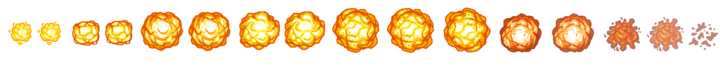
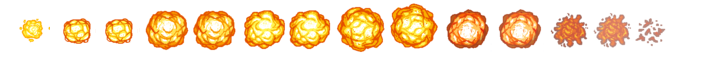
nothing

diff --git a/Client/game.js b/Client/game.js
@@ -130,12 +130,12 @@ var GameState = {
             }
 
             if(data.isDead){
-                game.add.text(game.world.centerX,game.world.centerY,"you are dead")
+                game.add.text(game.world.centerX,game.world.centerY,"you are dead");
             }
-            for (var i=0;i<data.blocks.length;i++){
-                var block = data.blocks[i];
-                block.add.sprite(block._x,block._y,'sink');
-            }
+            // for (var i=0;i<data.blocks.length;i++){
+            //     var block = data.blocks[i];
+            //     block.add.sprite(block._x,block._y,'sink');
+            // }
         });
 
         // this.player = game.add.sprite(40, 100, 'demo1');

diff --git a/Client/start.js b/Client/start.js
@@ -7,8 +7,8 @@ var StartState = {
         //display high scores from database
 
         var potionLogo = game.add.sprite(300,300,'potionshome');
-        potionLogo.animations.add('logo');
-        potionLogo.animations.play('logo', 1, false);
+        // potionLogo.animations.add('logo');
+        // potionLogo.animations.play('logo', 1, false);
 
         var pressEnter = game.add.text(300,400,"Press Enter To Start");
         pressEnter.font = '100px monospace';

diff --git a/Client/preload.js b/Client/preload.js
@@ -15,7 +15,7 @@ var PreloadState = {
         this.load.spritesheet('playerRight','assets/right.png',40,55,4);
         this.load.spritesheet('potions','assets/potions.png',29,37,4);
         this.load.spritesheet('potionshome','assets/potionshome.png',29,37,4);
-        this.load.spritesheet('explosion1','assets/explosion1.png',45,45,16);
+        this.load.spritesheet('explosion1','assets/explosion1.png',48,45,14);
 
     },
 
